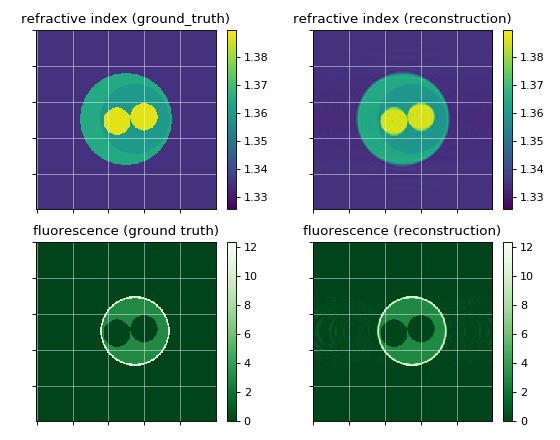
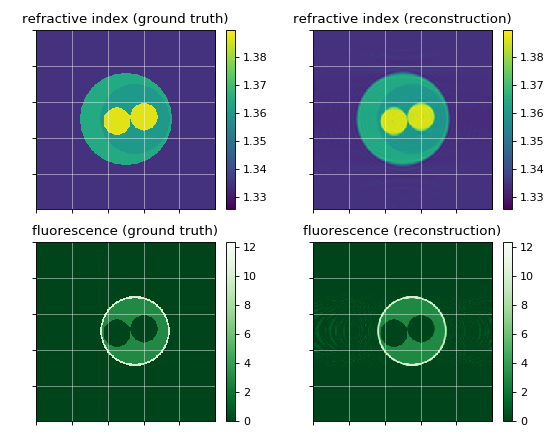
docs: typo in example

diff --git a/examples/simple_cell.py b/examples/simple_cell.py
@@ -72,7 +72,7 @@ plotkwfl = {"vmax": fl.max(),
             "cmap": "Greens_r",
             }
 
-ax1 = plt.subplot(221, title="refractive index (ground_truth)")
+ax1 = plt.subplot(221, title="refractive index (ground truth)")
 mapper = ax1.imshow(rimod[idx].real, **plotkwri)
 plt.colorbar(mappable=mapper, ax=ax1)
 
